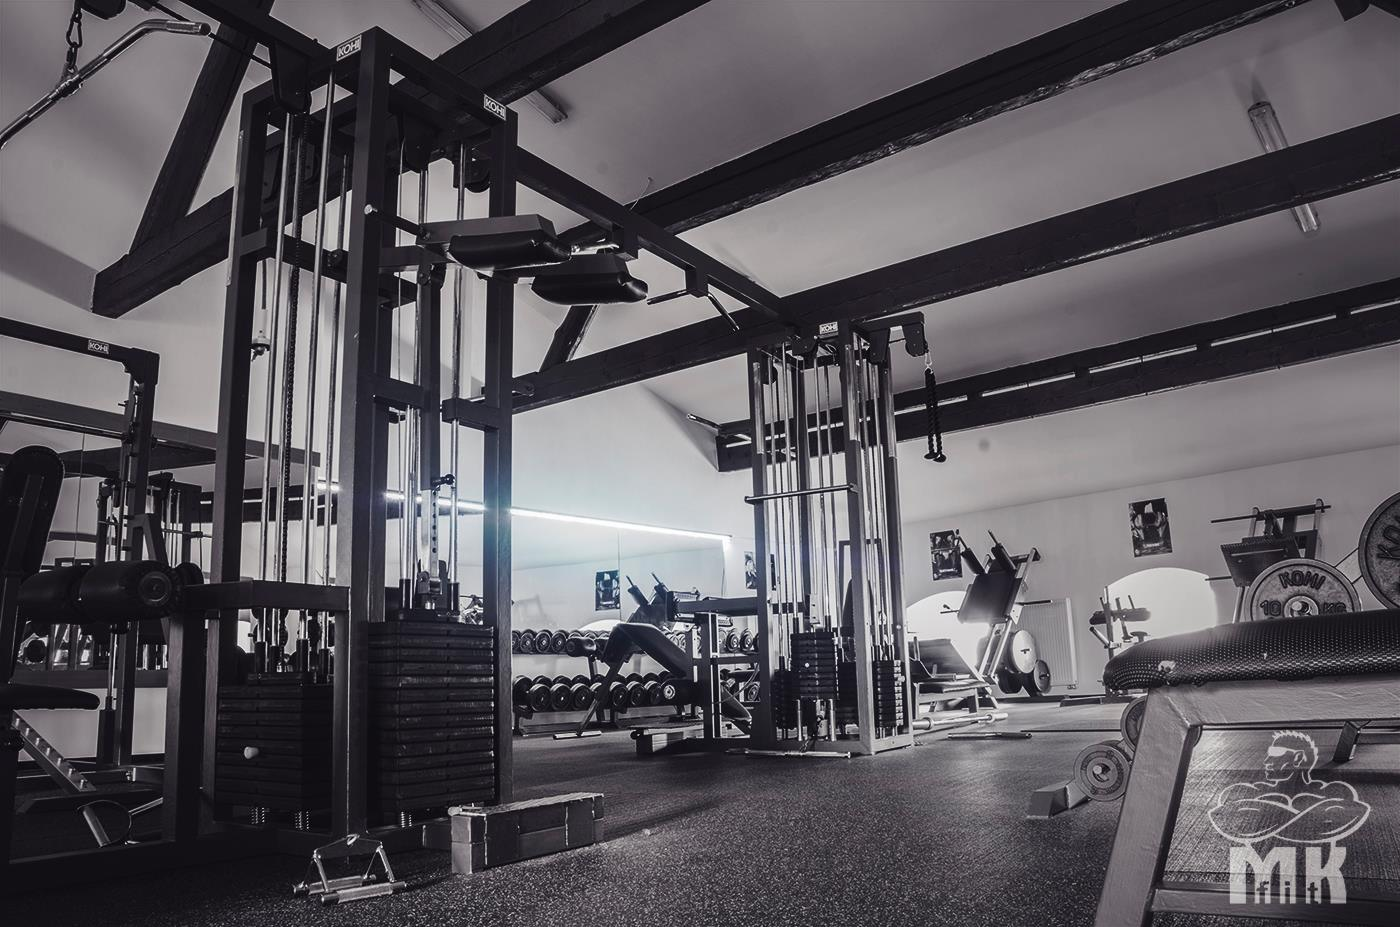
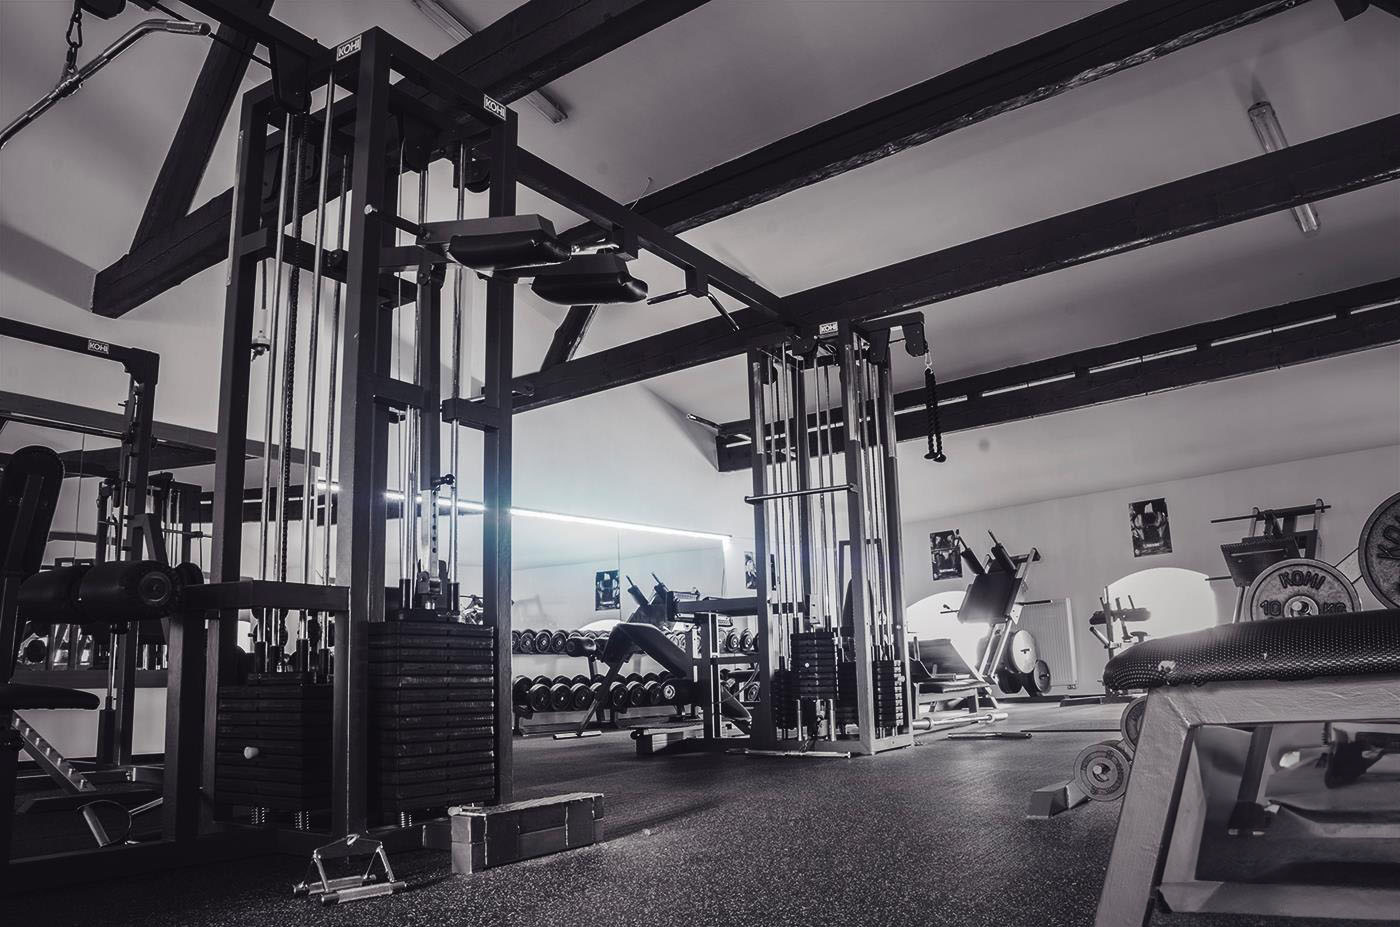
zaloha 4

Changed region(s): [[0.7986, 0.7551, 1.0, 1.0]]

diff --git a/public/resources/css/styles.css b/public/resources/css/styles.css
@@ -231,7 +231,7 @@ a {
 
 
 
-/* ----- UVOD SERVICESPAGE section ----- */
+/* ----- UVOD SERVICESPAGE/GALLERYPAGE/CONTACTPAGE section ----- */
 .container_uvod {
     position: relative;
     background-size: cover;
@@ -244,7 +244,8 @@ a {
     overflow: hidden;
 }
 
-.container_uvod .background-image::before {
+/* UVOD SERVICESPAGE background image */
+.container_uvod .servicespage-background-image::before {
     content: "";
     position: absolute;
     top: 0;
@@ -257,6 +258,37 @@ a {
     background-position: bottom;
     z-index: -1;
 }
+
+/* UVOD GALLERYPAGE background image */
+.container_uvod .gallerypage-background-image::before {
+    content: "";
+    position: absolute;
+    top: 0;
+    left: 0;
+    right: 0;
+    bottom: 0;
+    background-image: url('../img/photos/photo9.jpg');
+    filter: grayscale(100%);
+    background-size: cover;
+    background-position: bottom;
+    z-index: -1;
+}
+
+/* UVOD CONTACTPAGE background image */
+.container_uvod .contactpage-background-image::before {
+    content: "";
+    position: absolute;
+    top: 0;
+    left: 0;
+    right: 0;
+    bottom: 0;
+    background-image: url('../img/photos/photo1.jpg');
+    filter: grayscale(100%);
+    background-size: cover;
+    background-position: bottom;
+    z-index: -1;
+}
+
 
 .uvod1 {
     z-index: 1;

diff --git a/resources/views/web/component/uvod/uvod-gallerypage.blade.php b/resources/views/web/component/uvod/uvod-gallerypage.blade.php
@@ -1,5 +1,5 @@
 <section class="container_uvod">
-    <div class="background-image"></div>
+    <div class="gallerypage-background-image"></div>
     <img src="{{asset('resources/img/photos/hexagon_black.png')}}" alt="hexagon" class="hexagon">
     <div class="uvod1">
         <h1 class="title1">Galéria</h1>

diff --git a/resources/views/web/component/uvod/uvod-servicespage.blade.php b/resources/views/web/component/uvod/uvod-servicespage.blade.php
@@ -1,5 +1,5 @@
 <section class="container_uvod">
-    <div class="background-image"></div>
+    <div class="servicespage-background-image"></div>
     <img src="{{asset('resources/img/photos/hexagon_black.png')}}" alt="hexagon" class="hexagon">
     <div class="uvod1">
         <h1 class="title1">Služby</h1>

diff --git a/resources/views/web/component/uvod/uvod-contactpage.blade.php b/resources/views/web/component/uvod/uvod-contactpage.blade.php
@@ -1,5 +1,5 @@
 <section class="container_uvod">
-    <div class="background-image"></div>
+    <div class="contactpage-background-image"></div>
     <img src="{{asset('resources/img/photos/hexagon_black.png')}}" alt="hexagon" class="hexagon">
     <div class="uvod1">
         <h1 class="title1">Kontakt</h1>
